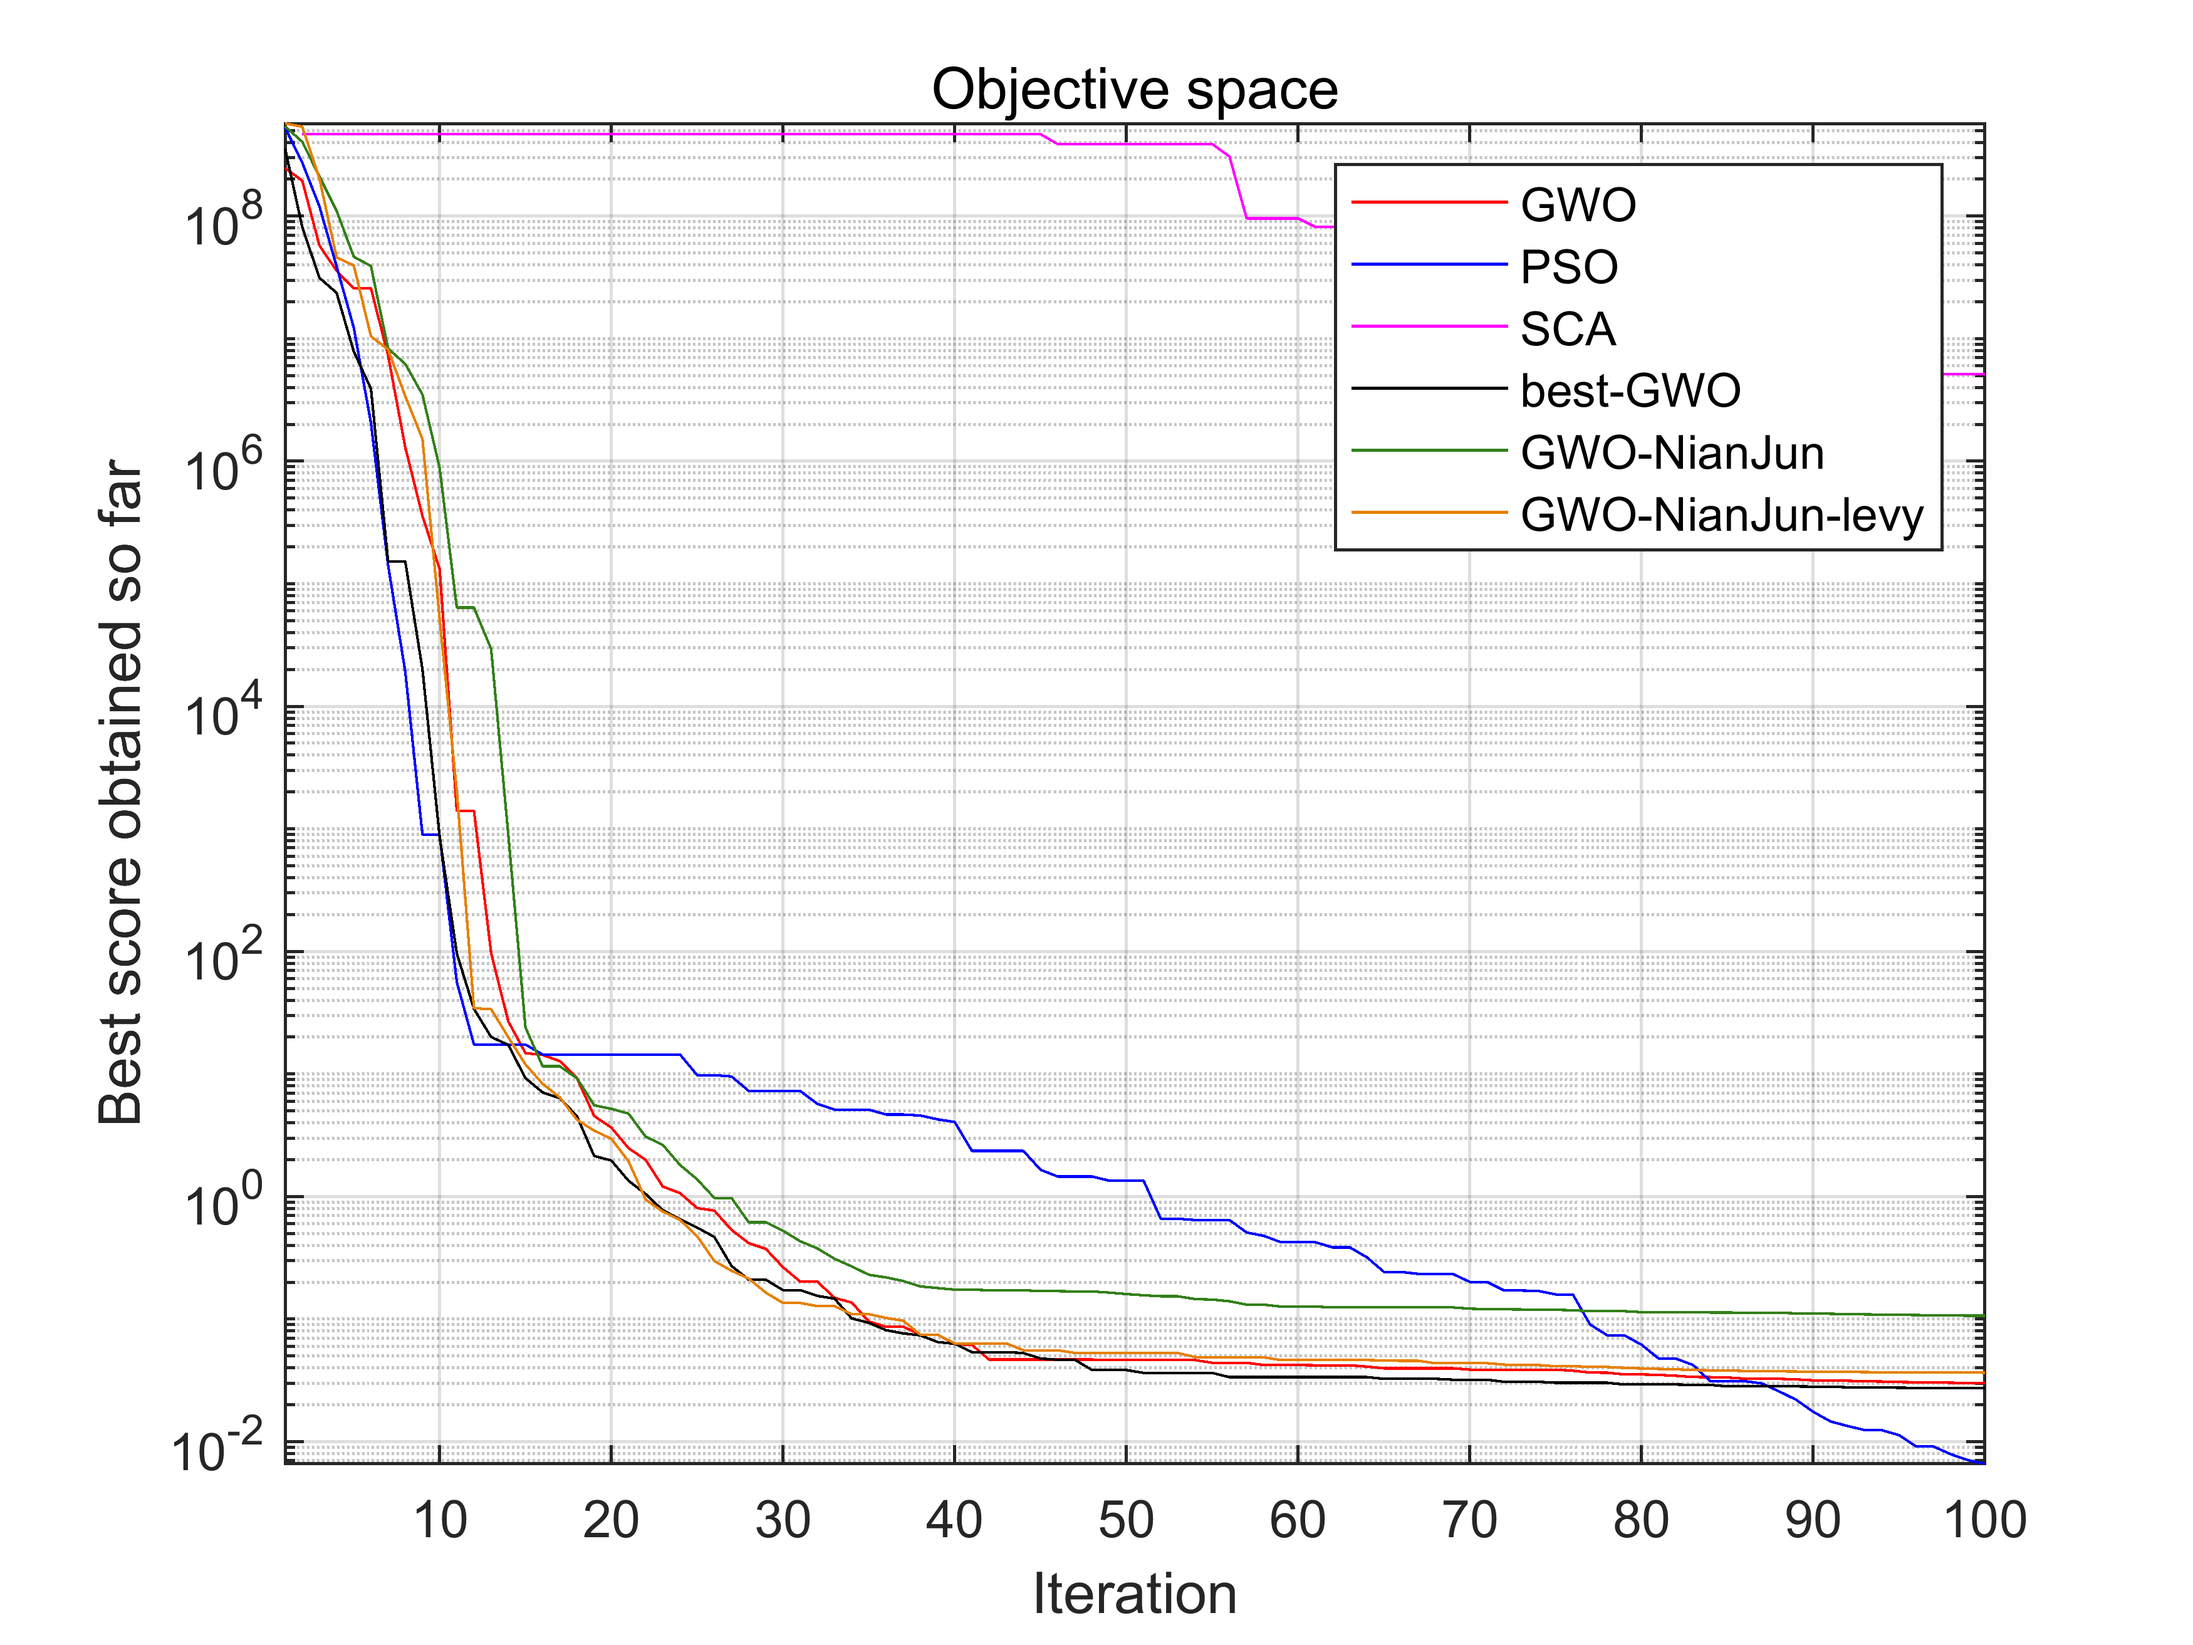
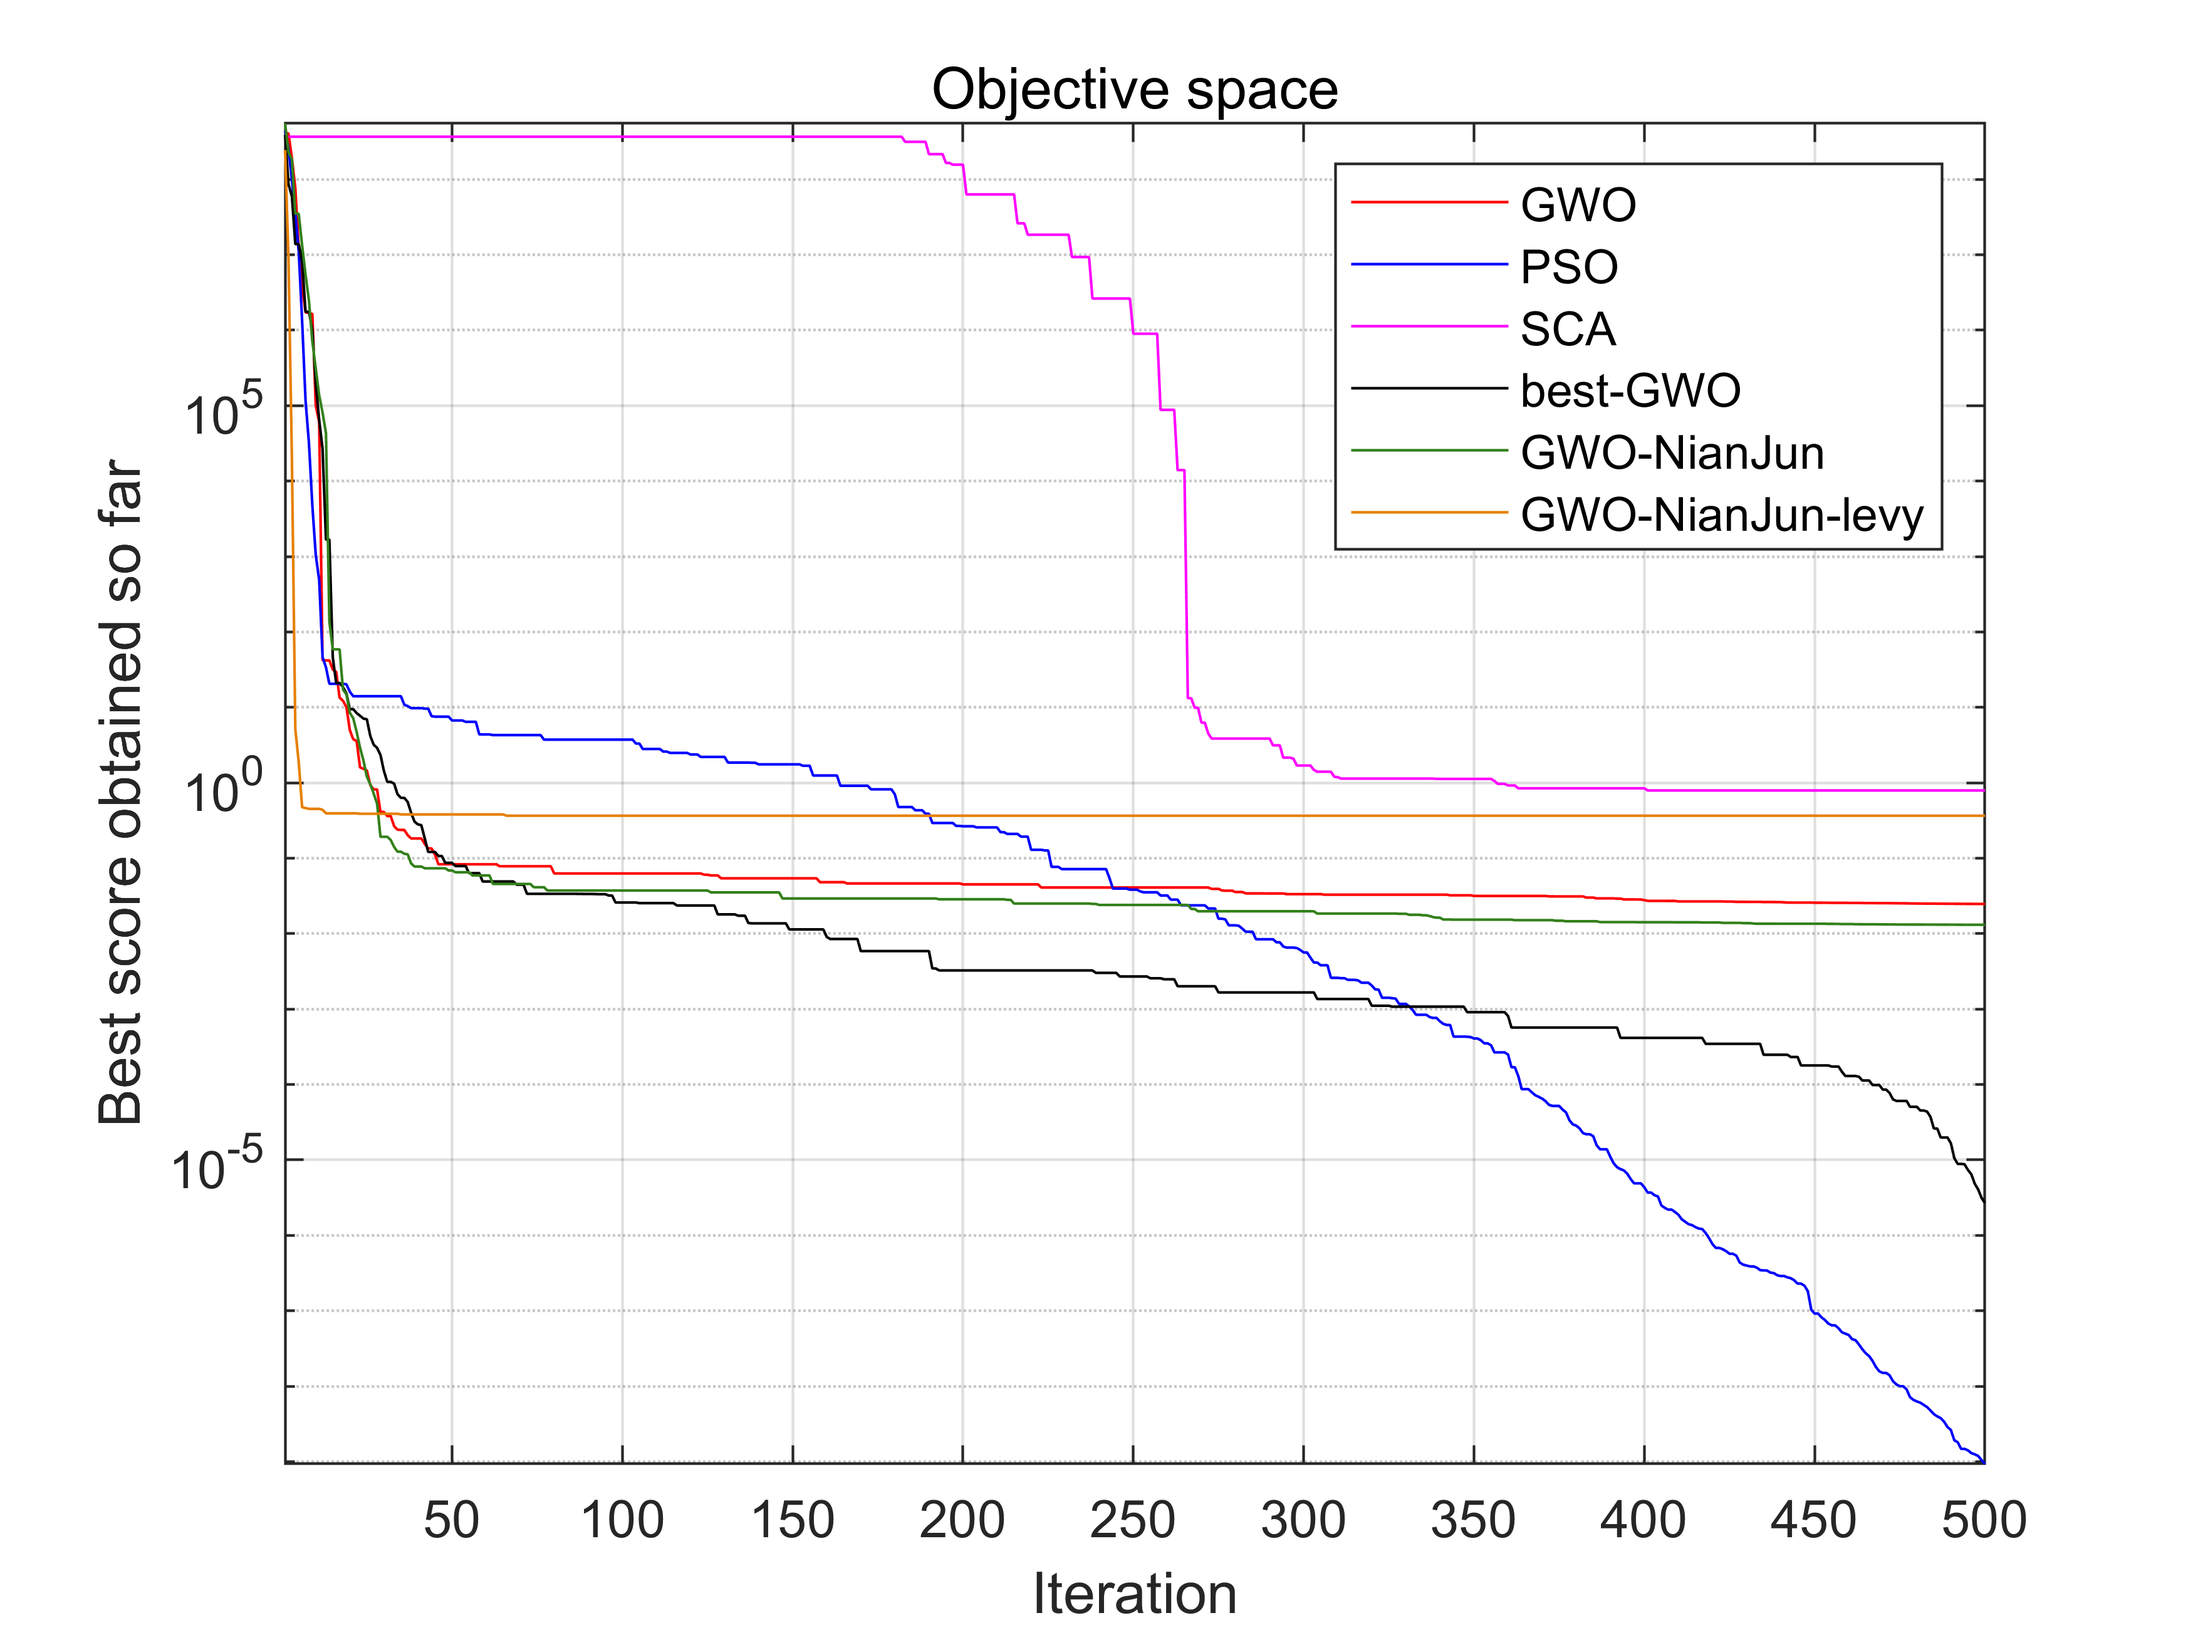
666，对Alpha、Belta、Delta进行加权后效果非常非常棒！

diff --git a/GWO_original/GWO_NianJun_Others.m b/GWO_original/GWO_NianJun_Others.m
@@ -20,7 +20,8 @@ best_of_every=Positions;
 best_score_of_every=Inf(1,SearchAgents_no);
 best_of_whole=Positions(1,:);
 best_score_of_whole=inf;
-
+figure();
+plot(5,2);
 % Main loop
 while l<Max_iter
     for i=1:size(Positions,1)  
@@ -55,6 +56,7 @@ while l<Max_iter
         if fitness>Alpha_score && fitness>Beta_score && fitness<Delta_score 
             Delta_score=fitness; % Update delta
             Delta_pos=Positions(i,:);
+            Delta_id = i;
         end
     end
     
@@ -92,7 +94,10 @@ while l<Max_iter
             D_delta=abs(C3*Delta_pos(j)-Positions(i,j)); % Equation (3.5)-part 3
             X3=Delta_pos(j)-A3*D_delta; % Equation (3.5)-part 3             
             
-            Positions(i,j)=(X1+X2+X3)/3;% Equation (3.7)
+            w1 = norm(X1,2)/(norm(X1,2) + norm(X2,2) + norm(X3,2));
+            w2 = norm(X2,2)/(norm(X1,2) + norm(X2,2) + norm(X3,2));
+            w3 = norm(X3,2)/(norm(X1,2) + norm(X2,2) + norm(X3,2));
+            Positions(i,j)=(w1*X1+w2*X2+w3*X3)/3;% Equation (3.7)
             
         end
     end
@@ -101,7 +106,8 @@ while l<Max_iter
     old_position = Positions;
     accept=0;
     reject=0;
-    llb = 0.2*(Max_iter - l)/Max_iter + 0.1;
+    llb = 0.4*(Max_iter - l)/Max_iter + 0.2;
+    llb = llb * rand();
 %     llb = 0.2*(Max_iter - l)/Max_iter;
     uub = 1-llb;
     for i = 1:SearchAgents_no % position to be changed
@@ -113,9 +119,9 @@ while l<Max_iter
             trust_score = abs(i_score - j_score) / (norm(diff,2)+0.01);
             %disp(trust_score);
             if (i_score - j_score > 0)
-                Positions(i,:) = Positions(i,:) - (uub * (1 - exp(-trust_score/100)) + llb) * diff;
+                Positions(i,:) = Positions(i,:) - (uub * (1 - exp(-trust_score/1)) + llb) * diff;
             else
-                Positions(i,:) = Positions(i,:) + (uub * (1 - exp(-trust_score/100)) + llb) * diff;
+                Positions(i,:) = Positions(i,:) + (uub * (1 - exp(-trust_score/1)) + llb) * diff;
             end
         end
         for j = 1:dim % prevent error solution
@@ -137,7 +143,7 @@ while l<Max_iter
     if (accept_curve(l+1) == 1)
         asdasd = 1231;
     end
-    if (accept/(accept+reject) < 0.05)
+    if (accept/(accept+reject) < 0.5)
 %         disp('rebuild');
 %         for w = 1:round(SearchAgents_no/10)
 %             old_version = Positions(w,:);
@@ -158,7 +164,7 @@ while l<Max_iter
 %                 Positions(w,:) = old_version;
 %             end
 %         end
-
+% 
 %         disp('rebuild2-PSO');
 %         for w = 1:round(SearchAgents_no/5)
 %             old_version = Positions(w,:);
@@ -175,6 +181,40 @@ while l<Max_iter
 %                 Positions(w,:) = old_version;
 %             end
 %         end
+
+%         disp('rebuild3-levy-on-single-wolf')
+% %         rand_wolf = randi([1,SearchAgents_no]);
+%         rand_wolf = Delta_id;
+%         rand_wolf_pos = Positions(rand_wolf,:);
+%         Delta_score = fobj(rand_wolf_pos);
+%         for t=1:Max_iter %%%%%%% 这里也许可以改
+%             b=1;
+%             a=0;
+%             r = (b-a).*rand(dim,1) + a;
+%             r = r/norm(r,2);
+%             change_k = 0.5 * levy_flight();
+%             if abs(change_k) > 0.6 * ub
+%                 change_k = 0.5 * levy_flight();
+%                 disp('up');
+%             end
+%             rand_wolf_pos = rand_wolf_pos + change_k * r.';
+%             for j = 1:dim
+%                 if rand_wolf_pos(j) > ub
+%                     rand_wolf_pos(j) = ub;
+%                 end
+%                 if rand_wolf_pos(j) < lb
+%                     rand_wolf_pos(j) = lb;
+%                 end
+%             end
+%             new_score = fobj(rand_wolf_pos);
+%             if new_score < Delta_score
+%                 Delta_score = new_score;
+%                 Positions(rand_wolf,:) = rand_wolf_pos;
+%             end
+%         end
+%         plot(l+1,accept_curve(l+1),'.','Color','g','MarkerSize',30);
+%         hold on;
+% %         text(l+1,accept_curve(l+1),'q');
     end
 
     %disp(Alpha_pos);
@@ -183,5 +223,5 @@ while l<Max_iter
     l=l+1;    
     Convergence_curve(l)=Alpha_score;
 end
-figure();
 plot(accept_curve);
+% text(10,3,'qeeq');

diff --git a/GWO_original/main.m b/GWO_original/main.m
@@ -33,8 +33,8 @@
 %__________________________________________
 
 clear all
-profile -historysize 500000000
-profile on
+% profile -historysize 500000000
+% profile on
 for kw = 1:22
     if kw == 17
         continue
@@ -42,7 +42,7 @@ for kw = 1:22
     SearchAgents_no=100; % Number of search agents
     Function_name=strcat('F', num2str(kw)); % Name of the test function that can be from F1 to F23 (Table 1,2,3 in the paper)
 
-    Max_iteration=100; % Maximum numbef of iterations
+    Max_iteration=500; % Maximum numbef of iterations
     
     % Load details of the selected benchmark function
     [lb,ub,dim,fobj]=Get_Functions_details(Function_name);
@@ -101,4 +101,4 @@ for kw = 1:22
     display(['The best optimal value of the objective funciton found by GWO is : ', num2str(Best_score)]);
     disp('-------------------------------')
 end
-profile viewer
+% profile viewer
